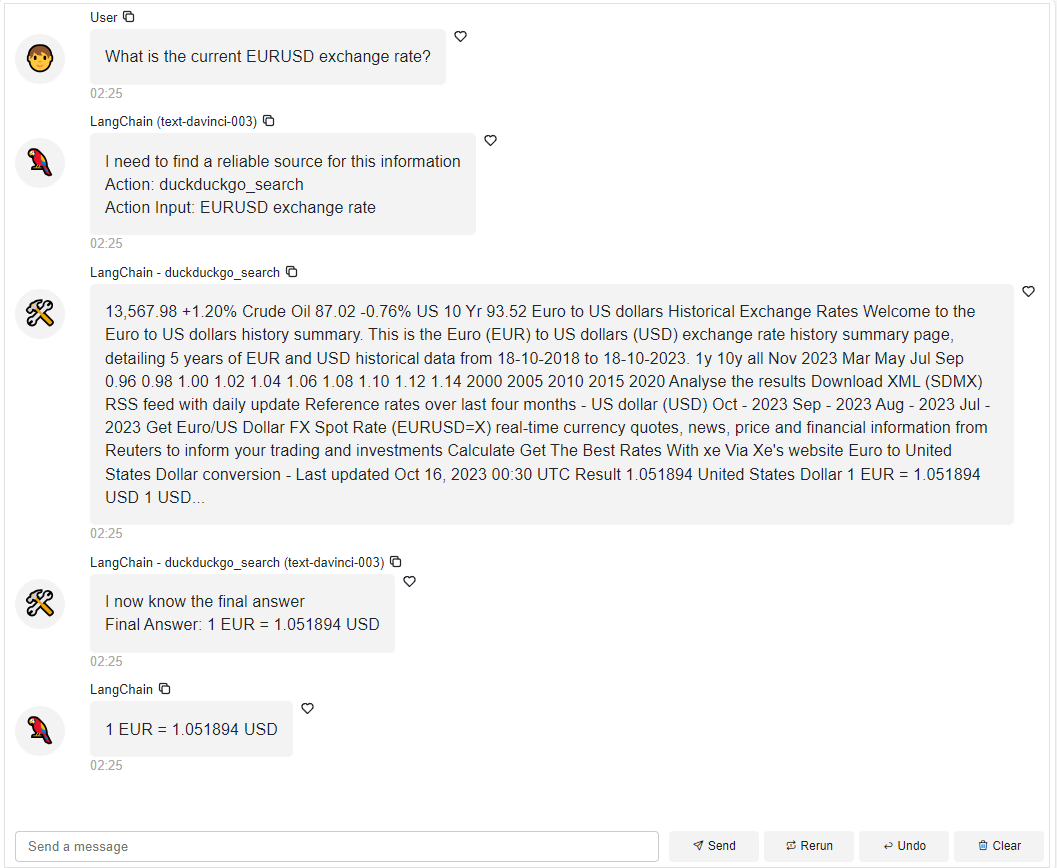
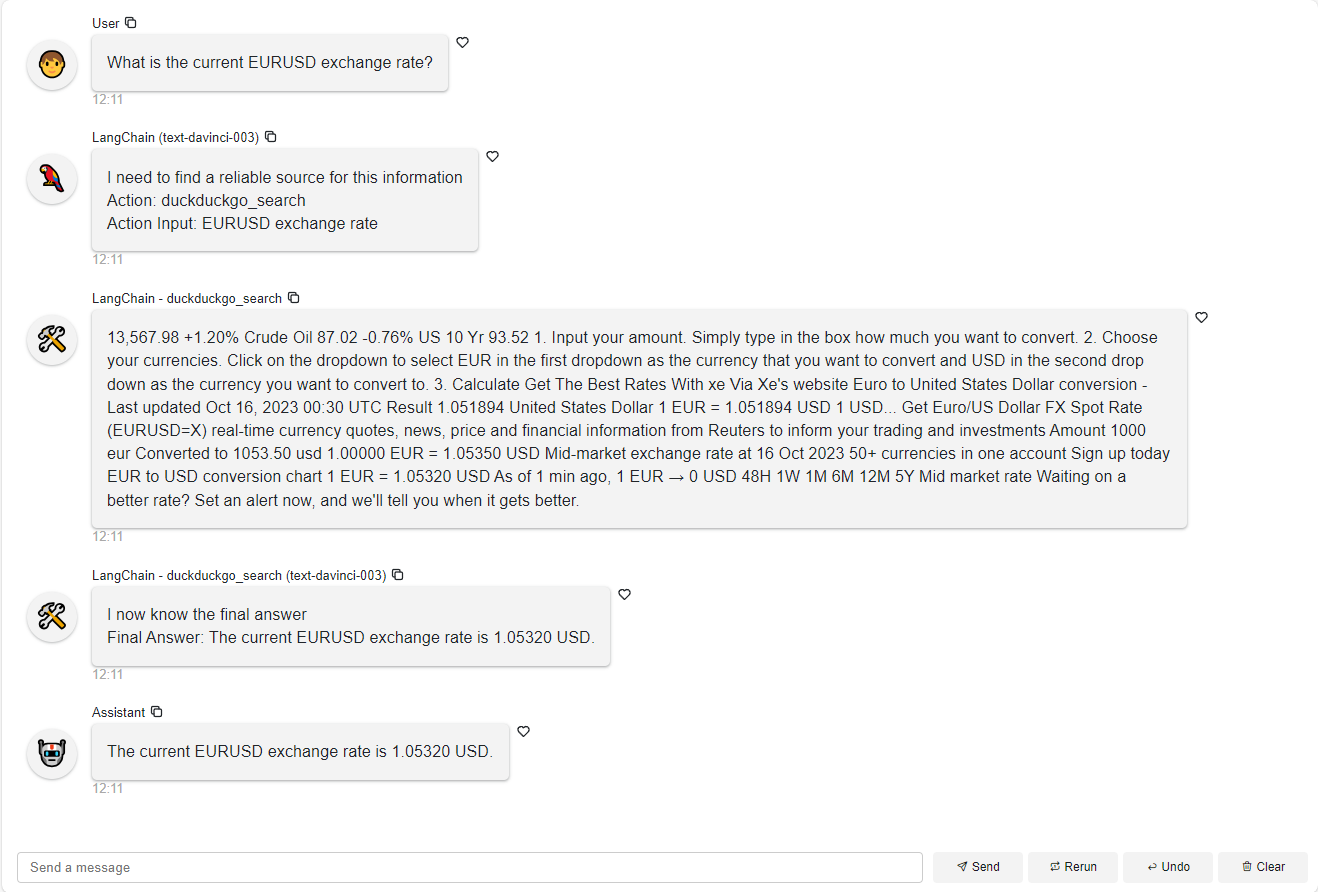
rever callback handler change

diff --git a/panel/chat/langchain.py b/panel/chat/langchain.py
@@ -22,7 +22,8 @@ from ..layout import Accordion
 class PanelCallbackHandler(BaseCallbackHandler):
     """
     The Langchain `PanelCallbackHandler` itself is not a widget or pane, but is useful for rendering
-    and streaming output from Langchain Tools, Agents, and Chains as `ChatMessage` objects.
+    and streaming the *chain of thought* from Langchain Tools, Agents, and Chains
+    as `ChatMessage` objects.
 
     Reference: https://panel.holoviz.org/reference/chat/PanelCallbackHandler.html
 
@@ -136,9 +137,7 @@ class PanelCallbackHandler(BaseCallbackHandler):
         return super().on_chain_start(serialized, inputs, *args, **kwargs)
 
     def on_chain_end(self, outputs: Dict[str, Any], *args, **kwargs):
-        if 'output' in outputs: # The chain is finished. Report the result
-            self.instance.disabled = self._disabled_state
-            self._stream(outputs['output'])
+        self.instance.disabled = self._disabled_state
         return super().on_chain_end(outputs, *args, **kwargs)
 
     def on_retriever_error(

diff --git a/panel/tests/chat/test_langchain.py b/panel/tests/chat/test_langchain.py
@@ -30,7 +30,7 @@ def test_panel_callback_handler(streaming, instance_type):
         tools, llm, agent=AgentType.ZERO_SHOT_REACT_DESCRIPTION, callbacks=[callback_handler]
     )
     instance.send("2 + 2")
-    assert len(instance.objects) == 4
+    assert len(instance.objects) == 3
     assert instance.objects[1].object == "Action: Python REPL\nAction Input: print(2 + 2)"
     assert instance.objects[2].object == "Final Answer: 4"
-    assert instance.objects[3].object == "4"
+    assert instance.disabled==False
